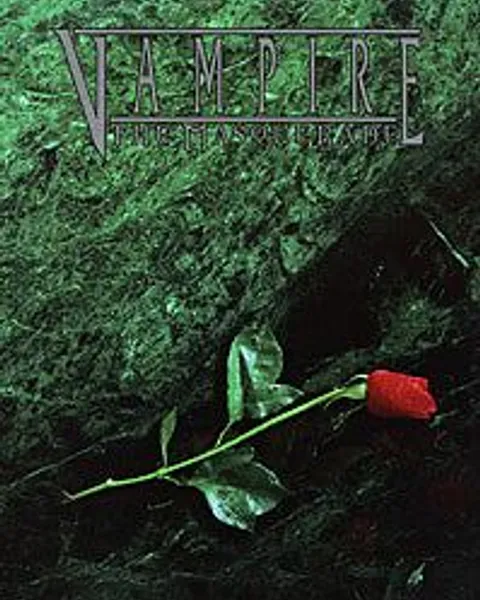
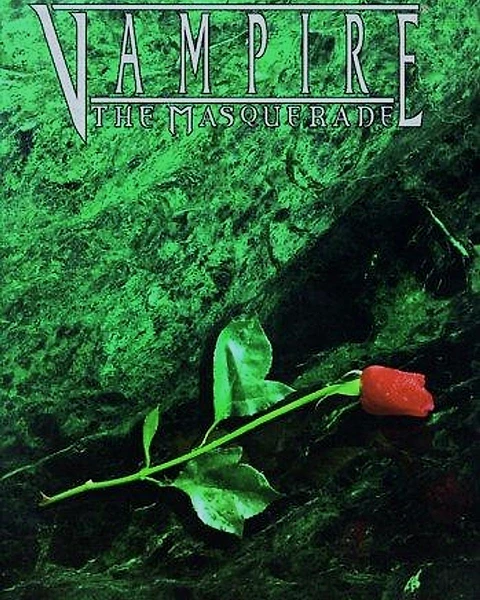
VtM Revised picture: Open Library's larger scan (349 px), sharpened

diff --git a/docs/art-credits.md b/docs/art-credits.md
@@ -23,3 +23,5 @@ Warhammer Fantasy Roleplay 1e is the last one found: the cover of the 1995 repri
 Werewolf: The Apocalypse 20th Anniversary Edition (W20) is Noble Knight's product photo (the "1500 px" file is an upscale of a roughly 200 px original), trimmed to the book, so the white edge is gone, and sharpened in two steps; it is crisper but not more detailed. The only scan with more detail found was the Spanish edition's, which carries the Spanish title.
 
 Warhammer Fantasy Roleplay 2e is now a 377 x 500 cover scan (a library catalogue's copy of the retail cover image, from Amazon's image server) instead of Wikipedia's 277 px one, sharpened in two steps.
+
+Vampire: The Masquerade Revised Edition is now Open Library's 349 x 475 scan (cover 802185) instead of Dragonstrove's 199 x 260 photo, sharpened in two steps and toned down a little (the scan is brighter green than the printed cover looks).
